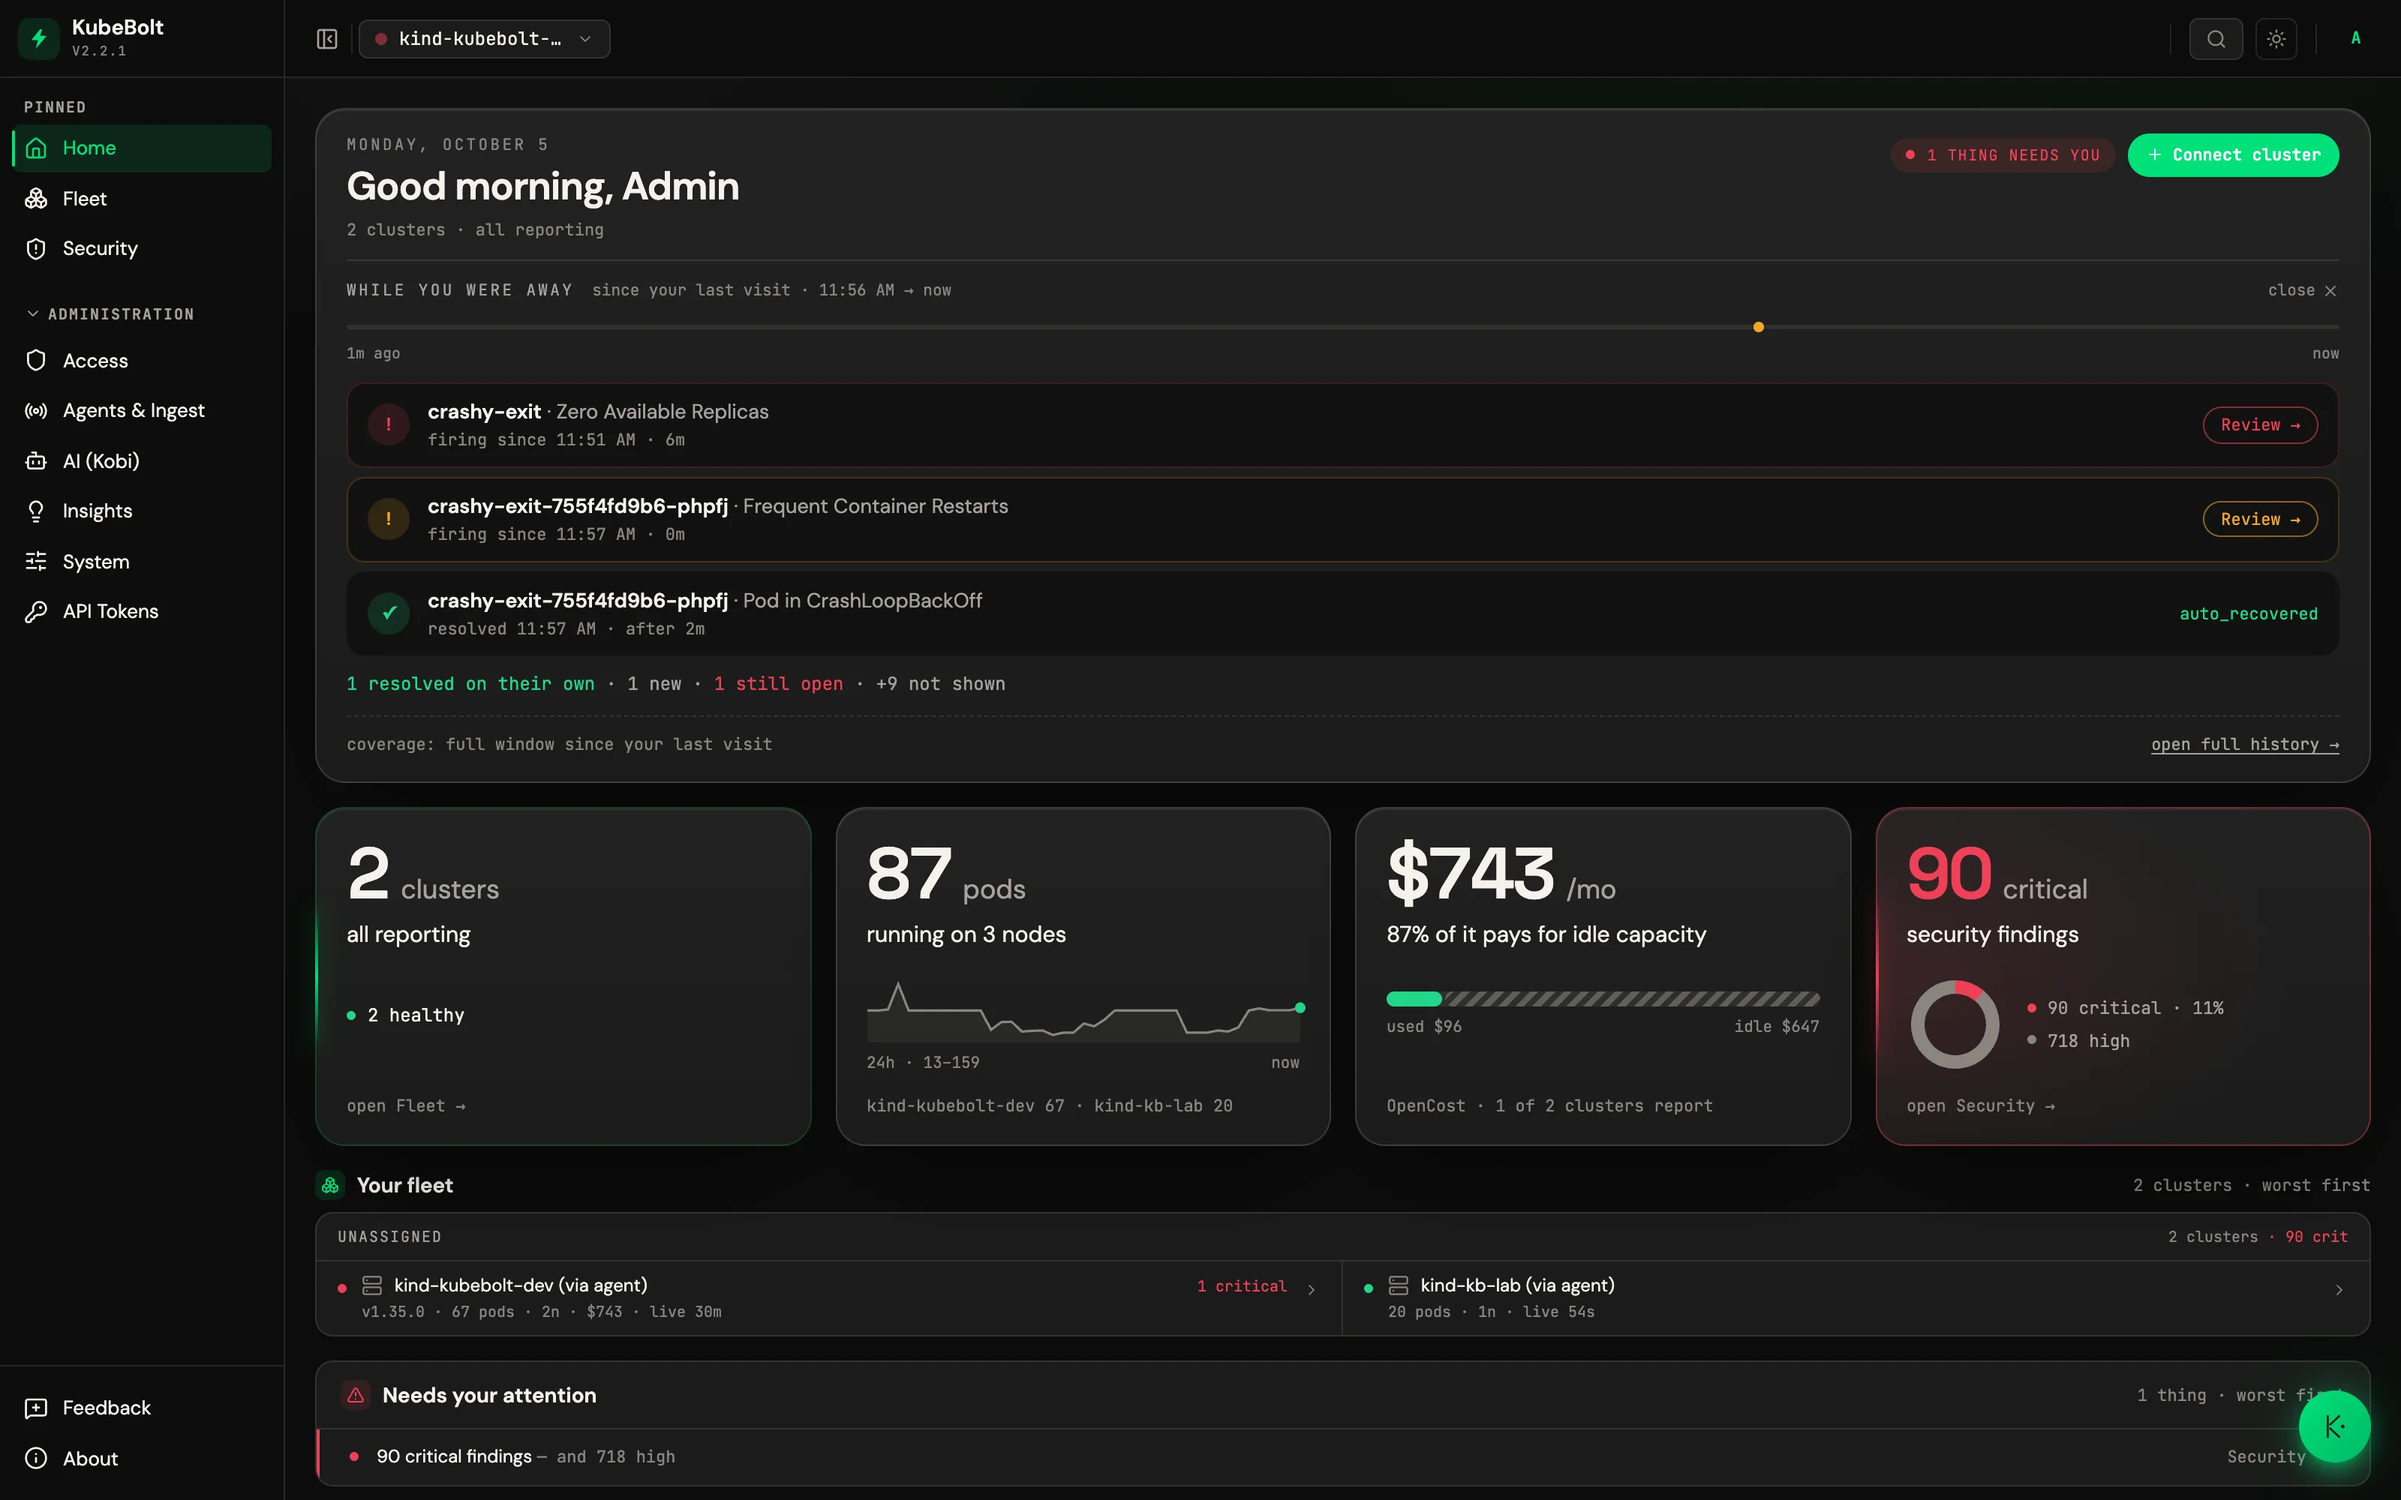
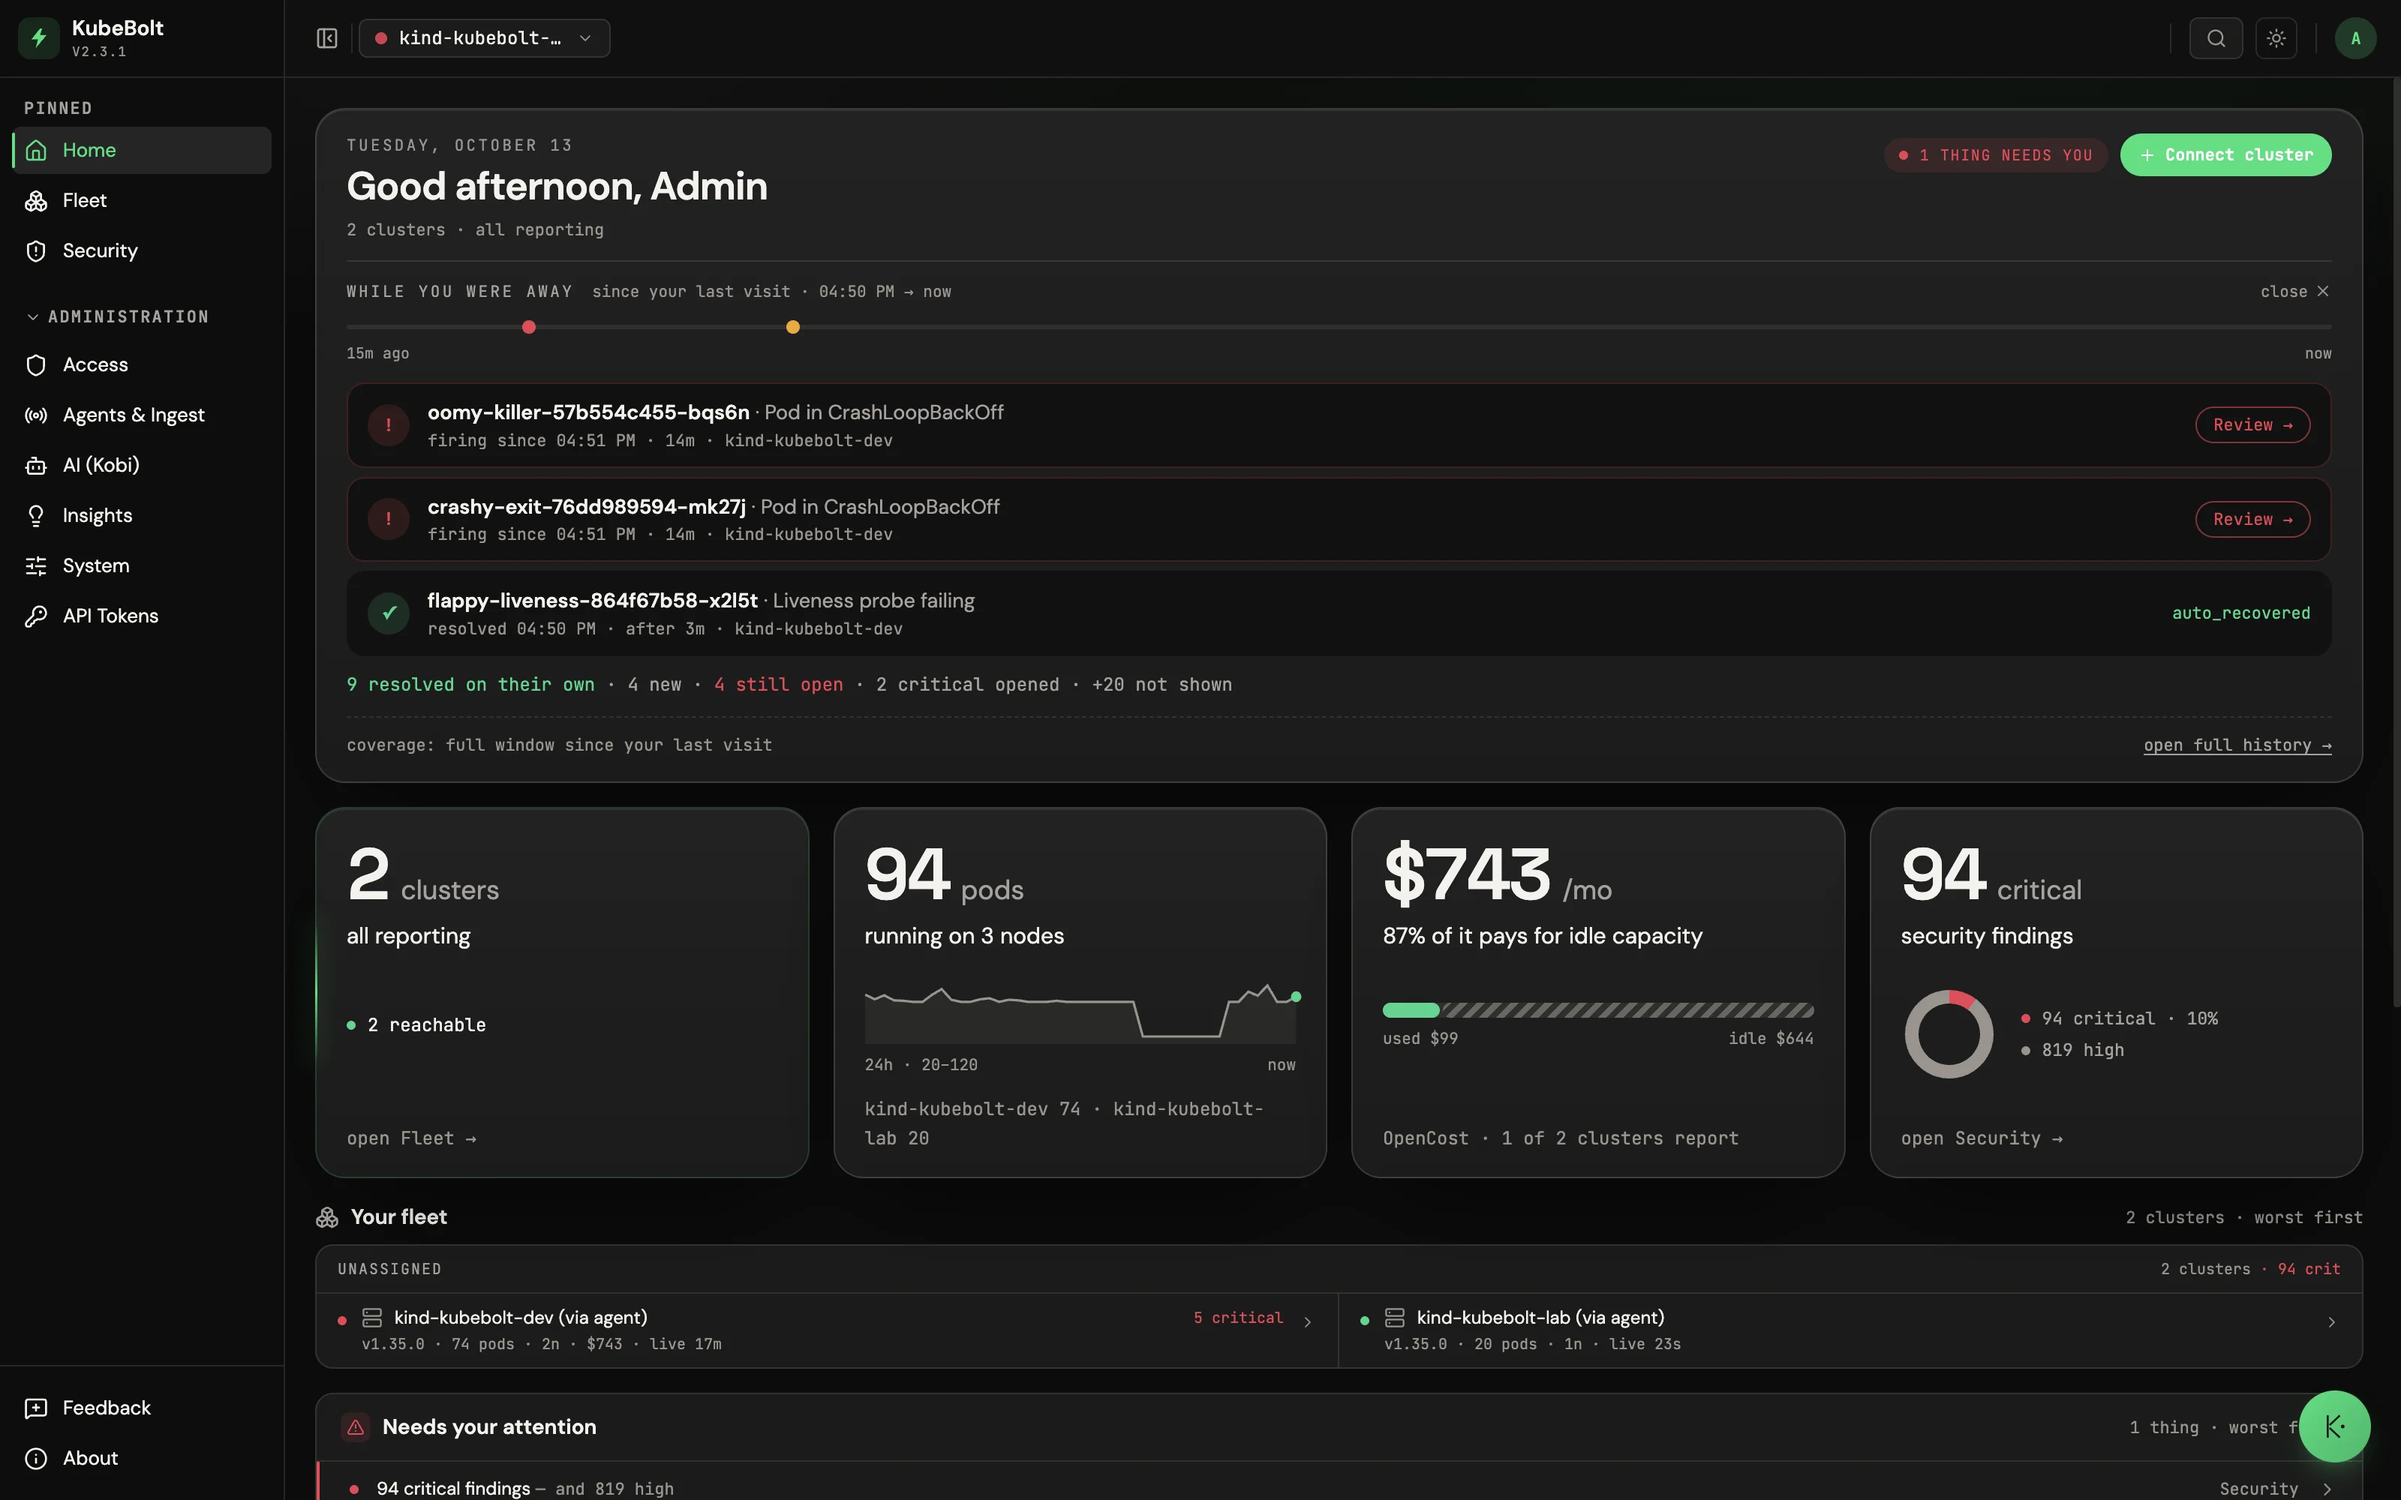
docs: refresh the README screenshots for 2.4
Recaptured all thirteen screens from develop, so they show the
actionable KPI cards, the single range control and the current Kobi
panel. Same names, size and format as before (1600x1000 at 2x, WebP
q85); the guide now points at the 2.4.x release.

diff --git a/docs/images/README.md b/docs/images/README.md
@@ -6,7 +6,7 @@ name** — nothing else needs to change.
 
 ## How to capture
 
-- **Version:** the current release (2.2.x), built from this repository — not
+- **Version:** the current release (2.4.x), built from this repository — not
   KubeBolt Cloud, whose screens show plans, teams and Autopilot.
 - **Theme:** dark. **Window:** 1600 × 1000 CSS px at 2× device pixel ratio
   (a 3200 × 2000 capture), browser chrome cropped out, no browser zoom.
